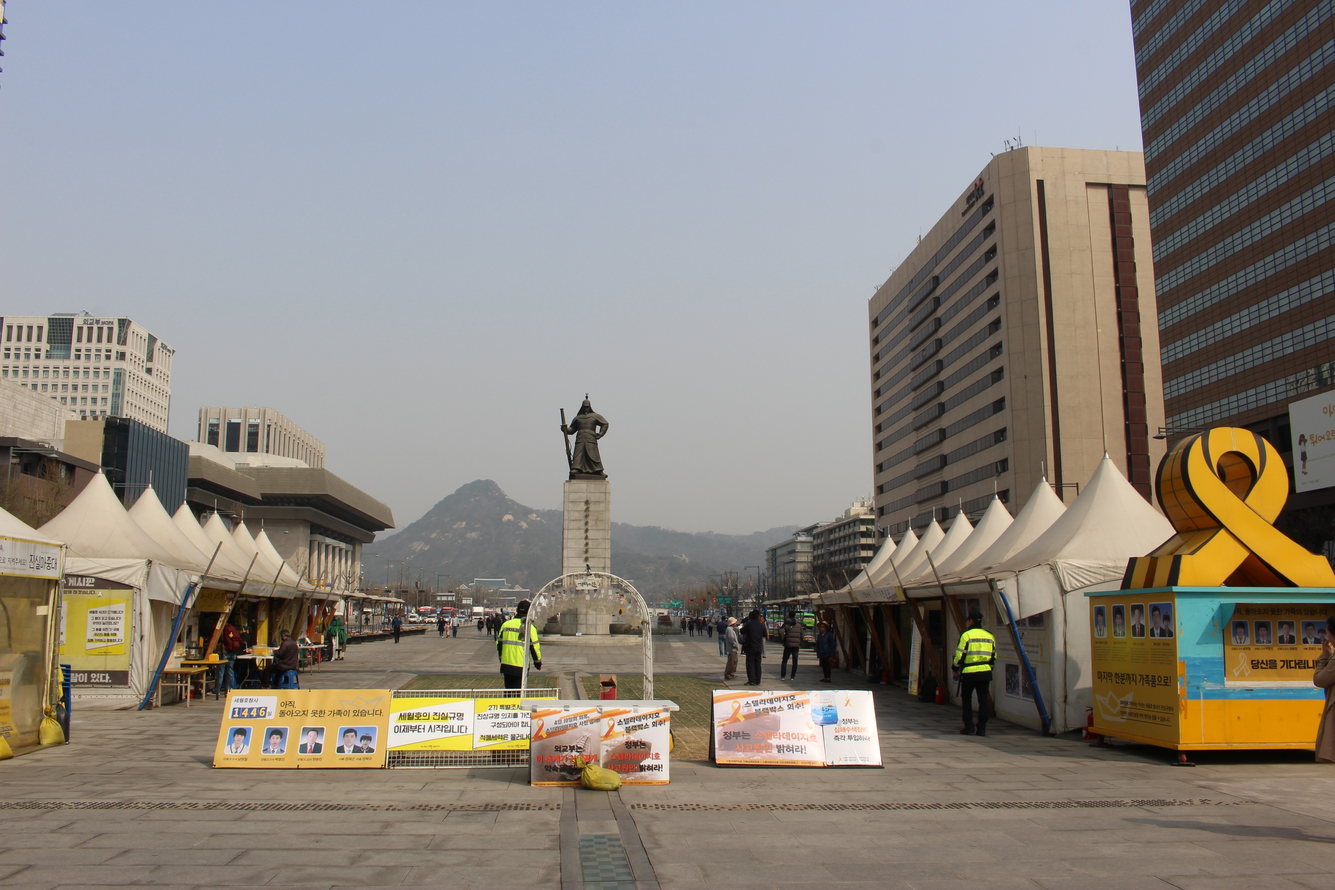
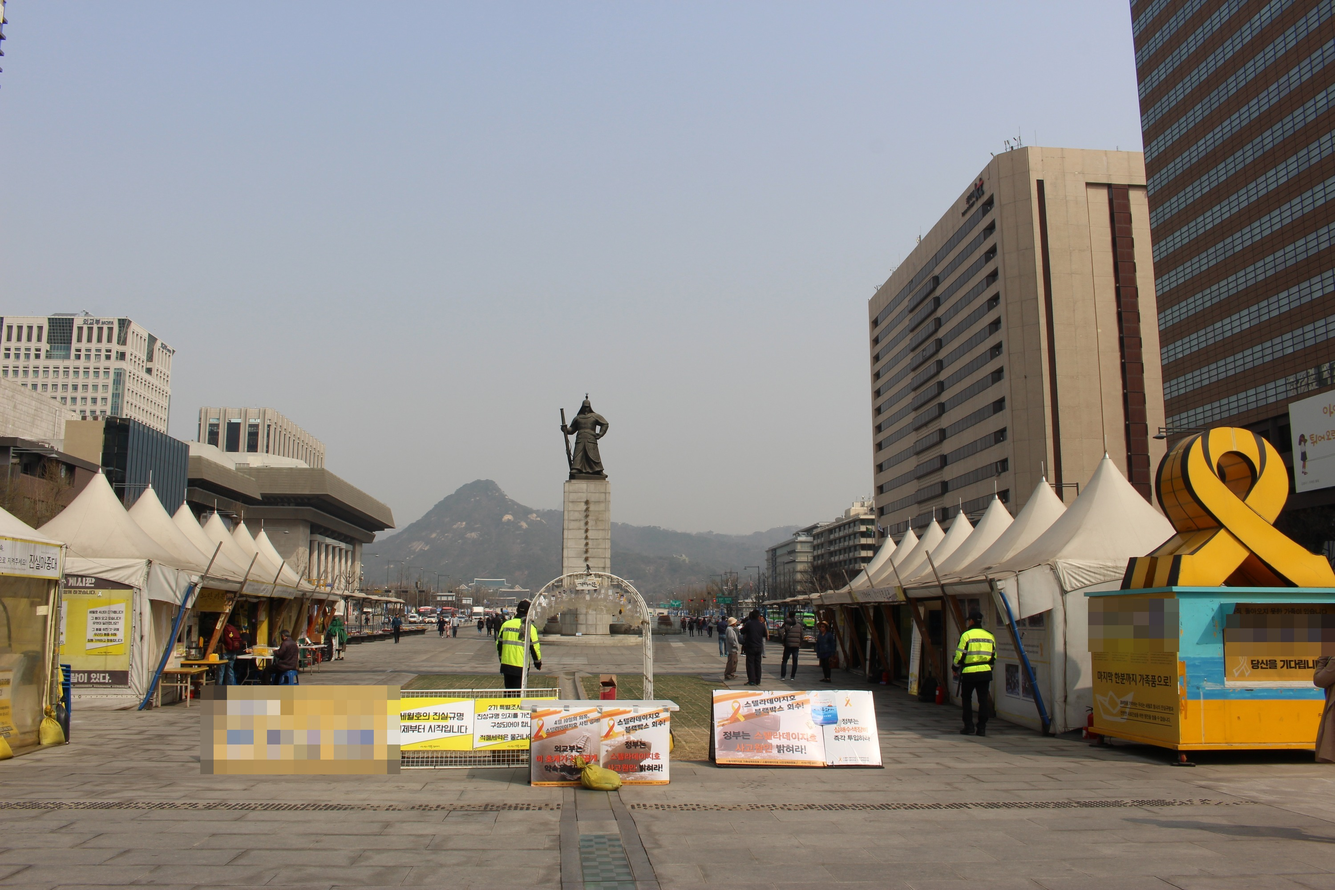
公開リポの私人の写真（A+）: いまの main に見えている隠す前の写真を隠した版に（2本目の写真-14・14本目の光化門と救命胴衣）
- ref/ja123/p014.jpg ← ref/ep20/p014.jpg（顔だけモザイクの版＝ref/ep20/masked.json の md5 b14b53ca）
- ref/ep14/gwanghwamun_2018.jpg：下の板（PRIVATE_OUT）と、売り場2か所の同じ5人の顔写真と名前に 30px のモザイク
- ref/ep14/lifejackets_2017.jpg：上 57.5%（集会の人の顔＝PRIVATE_OUT）に 32px のモザイク
- qa_out/ep14_assets.py：build が同じ MASK を当てる（作り直しても隠した版になる）・credits の注
- ref/CREDITS.md（credits --write の出力と同じ文）・ref/ep14/assets.json の md5・ref/ja123/INDEX.md の注
- 公開ずみの動画は焼き直さない（変わらない）。履歴にある前の版はそのまま（カズヤくんの決め＝A+）

Changed region(s): [[0.155, 0.744, 0.31, 0.868], [0.806, 0.651, 1.0, 0.744]]

diff --git a/qa_out/ep14_assets.py b/qa_out/ep14_assets.py
@@ -172,6 +172,28 @@ def _src_path(m):
     return p
 
 
+# 🆕 2026-10-17（公開リポに残る私人の写真・A+）：リポに置く束の原本も、私人の顔写真と名前にモザイクをかける。
+#   画面に出す範囲は `ss.TRIM` のまま＝公開ずみの動画は焼き直さない（変わらない）。範囲は束の画素（G2＝3000×2000・L1＝2048×1365）。
+#   G2：下の板（`ss.PRIVATE_OUT`）＋売り場2か所の上の顔写真と名前（同じ5人・原寸で名前が読めた。TRIM の内だが、
+#       ⑤b-7a の焼き絵 cut_cd05 では字幕の帯の下＝画面には出ていない）。L1：上 57.5%（集会の人の顔＝`ss.PRIVATE_OUT`）。
+#   許諾は Attribution・CC BY 3.0（BY-SA ではない）＝改変可・改変の旨は `ref/CREDITS.md`（下の credits の注）。
+#   式は `qa_out/ep20_assets.py` の mosaic と同じ（縮めて BOX → NEAREST で戻す）。升の大きさは顔の幅の半分以上＝見分けられない
+MOSAIC_PX = {'gwanghwamun_2018': 30, 'lifejackets_2017': 32}
+MASK = {
+    'gwanghwamun_2018': [(450, 1540, 900, 1740), (2445, 1345, 2650, 1465), (2755, 1380, 3000, 1475)],
+    'lifejackets_2017': [(0, 0, 2048, 785)],
+}
+
+
+def _mosaic(im, boxes, n):
+    from PIL import Image
+    for x0, y0, x1, y1 in boxes:
+        reg = im.crop((x0, y0, x1, y1))
+        small = reg.resize((max(1, reg.width // n), max(1, reg.height // n)), Image.BOX)
+        im.paste(small.resize(reg.size, Image.NEAREST), (x0, y0))
+    return im
+
+
 def cmd_build(only=None):
     from PIL import Image
     Image.MAX_IMAGE_PIXELS = None
@@ -190,6 +212,8 @@ def cmd_build(only=None):
             im = im0.convert('RGB')
         if im.width > MAXW:
             im = im.resize((MAXW, round(im.height * MAXW / im.width)), Image.LANCZOS)
+        if name in MASK:
+            _mosaic(im, MASK[name], MOSAIC_PX[name])     # 🆕 10-17：リポの原本も私人の顔と名前を隠す（上の MASK）
         out = DEST / f'{name}.jpg'
         im.save(out, quality=92)
         db[name] = dict(src='commons', id=m['title'], key=r['key'], slot=r['slot'], cut=r.get('cut', ''),
@@ -526,7 +550,8 @@ def cmd_credits(write=False):
             '### 1. 写真（Wikimedia Commons ＝ CC BY-SA は**額装・無改変・1点1カット**／CC BY／Attribution／CC0／PD／引用）・映像・判決と報告書の頁',
             '`qa_out/ep14_assets.py credits --write` が書く（手で直さない）。'
             'BY-SA の表示＝撮影者・許諾名と URL・素材の URL・無改変（許諾の URL は概要欄で）。', '',
-            '- 🔴 **私人の顔と名前は出さない**：G2（光化門 2018）の下の板＝見つかっていない5人の顔写真と名前／L1（救命胴衣の列）の奥の集会の人＝どちらも切り出し（`cuts/ss.py` の `TRIM`）で外した（改変の旨は画面の出典に出る）',
+            '- 🔴 **私人の顔と名前は出さない**：G2（光化門 2018）の下の板＝見つかっていない5人の顔写真と名前／L1（救命胴衣の列）の奥の集会の人＝どちらも切り出し（`cuts/ss.py` の `TRIM`）で外した（改変の旨は画面の出典に出る）。'
+            '🆕 2026-10-17：リポに置く原本も、G2 の下の板と売り場2か所（同じ5人の顔写真と名前）・L1 の上 57.5% に**モザイク**（`qa_out/ep14_assets.py` の `MASK`）＝リポの写しは改変あり。公開ずみの動画は焼き直さない（変わらない）',
             '- 🔴 H1（当日の沈む船）＝Commons の表示「South Korea-Gov」に根拠が無い（削除依頼中）＝**引用**（額装・無改変・出典＝韓国 海洋警察）。サムネに使わない',
             '- 🔴 **米国防総省（米海軍・米海兵隊）の写真と映像**（`site_0418`・`e1`・`e2`）＝DVIDS の条件「The appearance of U.S. Department of Defense (DoD) visual information does not imply or constitute DoD endorsement.」＝**概要欄に「米国防総省の画像の使用は、同省の推奨を意味しません」**（⑥の申し送り）',
             '- 映像＝DVIDS 330919（USS Bonhomme Richard・2014-04-18・1920×1080）・332722（31st MEU・2014-04-19・1280×720）。原本は CloudFront の `DOD_<番号>.mp4`（`ref/ep14/clips.json` の `media`）',

diff --git a/ref/CREDITS.md b/ref/CREDITS.md
@@ -1878,7 +1878,7 @@ Commons の説明文（原文）が言っているのは、こういう経路で
 ### 1. 写真（Wikimedia Commons ＝ CC BY-SA は**額装・無改変・1点1カット**／CC BY／Attribution／CC0／PD／引用）・映像・判決と報告書の頁
 `qa_out/ep14_assets.py credits --write` が書く（手で直さない）。BY-SA の表示＝撮影者・許諾名と URL・素材の URL・無改変（許諾の URL は概要欄で）。
 
-- 🔴 **私人の顔と名前は出さない**：G2（光化門 2018）の下の板＝見つかっていない5人の顔写真と名前／L1（救命胴衣の列）の奥の集会の人＝どちらも切り出し（`cuts/ss.py` の `TRIM`）で外した（改変の旨は画面の出典に出る）
+- 🔴 **私人の顔と名前は出さない**：G2（光化門 2018）の下の板＝見つかっていない5人の顔写真と名前／L1（救命胴衣の列）の奥の集会の人＝どちらも切り出し（`cuts/ss.py` の `TRIM`）で外した（改変の旨は画面の出典に出る）。🆕 2026-10-17：リポに置く原本も、G2 の下の板と売り場2か所（同じ5人の顔写真と名前）・L1 の上 57.5% に**モザイク**（`qa_out/ep14_assets.py` の `MASK`）＝リポの写しは改変あり。公開ずみの動画は焼き直さない（変わらない）
 - 🔴 H1（当日の沈む船）＝Commons の表示「South Korea-Gov」に根拠が無い（削除依頼中）＝**引用**（額装・無改変・出典＝韓国 海洋警察）。サムネに使わない
 - 🔴 **米国防総省（米海軍・米海兵隊）の写真と映像**（`site_0418`・`e1`・`e2`）＝DVIDS の条件「The appearance of U.S. Department of Defense (DoD) visual information does not imply or constitute DoD endorsement.」＝**概要欄に「米国防総省の画像の使用は、同省の推奨を意味しません」**（⑥の申し送り）
 - 映像＝DVIDS 330919（USS Bonhomme Richard・2014-04-18・1920×1080）・332722（31st MEU・2014-04-19・1280×720）。原本は CloudFront の `DOD_<番号>.mp4`（`ref/ep14/clips.json` の `media`）

diff --git a/ref/ja123/INDEX.md b/ref/ja123/INDEX.md
@@ -89,7 +89,7 @@
 | `p011.jpg` | 1200×860 | 写真‐１１ タイロッド・リンク破断部 |
 | `p012.jpg` | 1200×860 | 写真‐１２ 回収された圧力隔壁(1) 後方（非与圧）側 |
 | `p013.jpg` | 1200×838 | 写真‐１３ 回収された圧力隔壁(2) 客室（与圧）側 |
-| `p014.jpg` | 1200×838 | 写真‐１４ 海上から回収されたＡＰＵ空気取り入れダクト |
+| `p014.jpg` | 1200×838 | 写真‐１４ 海上から回収されたＡＰＵ空気取り入れダクト。🆕 2026-10-17：**顔だけモザイクの版**に差し替え（白いシャツの男性の顔＝`ref/ep20/p014.jpg` と同じファイル・md5 `b14b53ca…`＝`ref/ep20/masked.json`）。差し替え前の md5 は `a204fac3…`（`ref/ep20/assets.json` の `src_md5`＝20本目の束を作ったときの元）。⚠ `extract_photos.py` を回し直すと隠す前に戻る＝回したら `ref/ep20/p014.jpg` で置き換える |
 | `p015.jpg` | 1200×860 | 写真‐１５ 海上から回収された垂直尾翼の一部(1) |
 | `p016.jpg` | 1200×867 | 写真‐１６ 海上から回収された垂直尾翼の一部(2) |
 | `p017.jpg` | 844×1200 | 写真‐１７ 飛行経路下から回収された残骸(1) トルク・ボックス左後下方の一部 |
